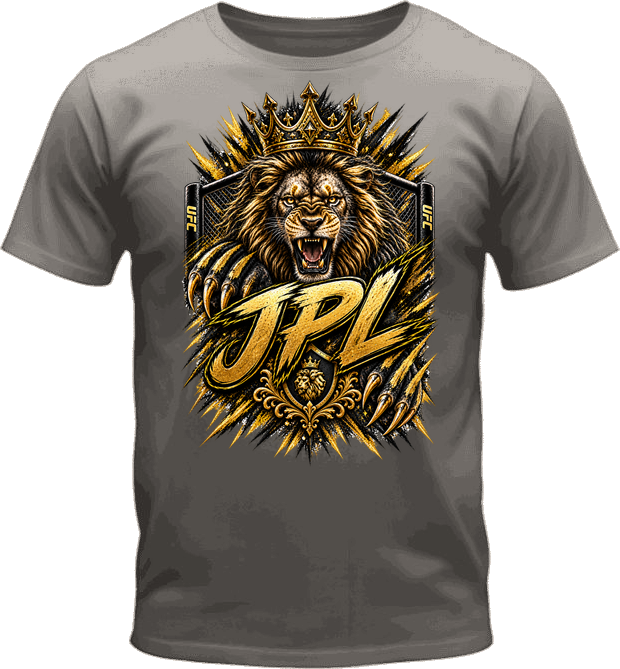
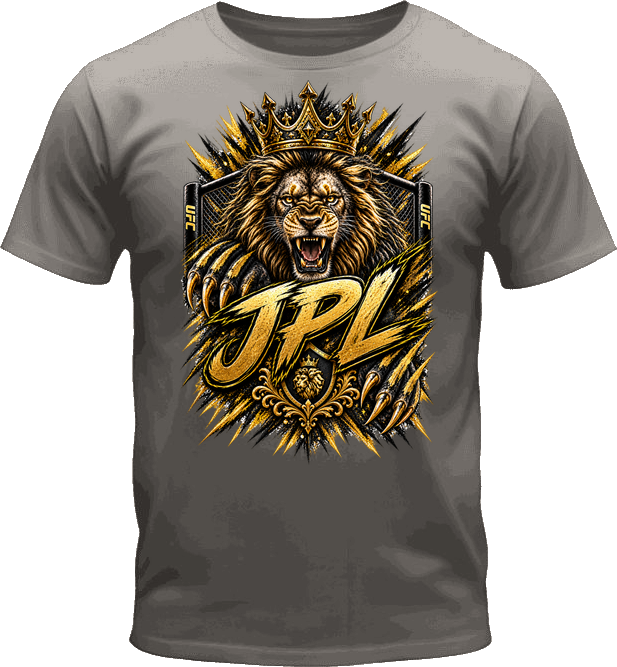
remove Classic Cap e Kids Shirt da loja; tira o brilho branco do contorno da camisa
Classic Cap e Kids Shirt saem da loja (nunca tiveram arte de atleta, so o
crest generico) -- inclui migration pra remover do banco ja rodado. Aba
Kids do filtro de categoria sai junto, fica sem produto.

O molde de frente da camisa tinha uma franja cinza-clara sobrando na borda
(mistura JPEG entre o preto do tecido e o fundo branco que o corte simples
nao pegava) -- descasca mais um pouco a mascara ate a franja sumir. Afeta
as 4 camisas (Ozzy, Hollywood, JP, Dione), que foram recompostas.

Claude-Session: https://claude.ai/code/session_01DTJSngPeFnGjb4SG3RVnMf

diff --git a/src/data/shop.ts b/src/data/shop.ts
@@ -15,13 +15,6 @@ const MOCKUP_COLORS: ProductColor[] = [
   { name: 'Gold', hex: '#C8A03C', slug: 'gold' },
 ];
 
-/** Paleta do boné clássico (esse é 'art', SVG genérico — não depende de foto). */
-const CAP_COLORS: ProductColor[] = [
-  { name: 'Black', hex: '#14110F', slug: 'black' },
-  { name: 'Burgundy', hex: '#B0301F', slug: 'burgundy' },
-  { name: 'Beige', hex: '#948A81', slug: 'beige' },
-];
-
 /**
  * Os bonés de arte dos atletas só têm foto de mockup (molde + logo colada)
  * na cor preta — é a única cor que temos foto do boné em branco. Se um dia
@@ -39,46 +32,6 @@ const ART_CAP_DETAILS =
 
 /** Sem as variações: quem monta é comVariacoes(), com a mesma regra do SQL. */
 export const products: ProdutoBase[] = [
-  {
-    id: 'theq-classic-cap',
-    slug: 'theq-classic-cap',
-    name: 'The Q Classic Cap',
-    category: 'Caps',
-    priceCents: 9900,
-    badges: [],
-    owner: 'team',
-    description:
-      'Curved-brim cap with the team logo embroidered on front, snapback adjustable strap.',
-    tags: ['TheQMMA', 'Cap', 'Classic'],
-    genders: ['Men', 'Women'],
-    colors: CAP_COLORS,
-    details:
-      'Structured 6-panel cap, pre-curved brim, embroidered raised logo. Snapback adjustable strap, one size fits all.',
-    shipping: SHIPPING,
-    mode: 'art',
-    art: 'cap',
-  },
-  {
-    id: 'theq-kids-shirt',
-    slug: 'theq-kids-shirt',
-    name: 'The Q Kids Shirt',
-    category: 'Kids',
-    priceCents: 12900,
-    badges: [],
-    owner: 'team',
-    description: 'Kids shirt with the team crest, soft 100% cotton fabric.',
-    tags: ['TheQMMA', 'Kids'],
-    genders: ['Kids'],
-    colors: [
-      { name: 'Black', hex: '#14110F', slug: 'black' },
-      { name: 'Gold', hex: '#C8A03C', slug: 'gold' },
-    ],
-    details:
-      '100% cotton kids shirt, reinforced crew neck, team crest printed in high-durability heat-transfer vinyl.',
-    shipping: SHIPPING,
-    mode: 'art',
-    art: 'kid',
-  },
   {
     id: 'dione-witch-art',
     slug: 'dione-witch-art',

diff --git a/src/pages/ShopPage.tsx b/src/pages/ShopPage.tsx
@@ -5,7 +5,7 @@ import { useProducts } from '../hooks/useProducts';
 import { CategoryChips, ProductCard } from '../components/shop/ShopParts';
 import '../styles/shop.css';
 
-const CATEGORIES = ['All', 'Shirts', 'Caps', 'Kids'];
+const CATEGORIES = ['All', 'Shirts', 'Caps'];
 
 export function ShopPage() {
   const [category, setCategory] = useState('All');
